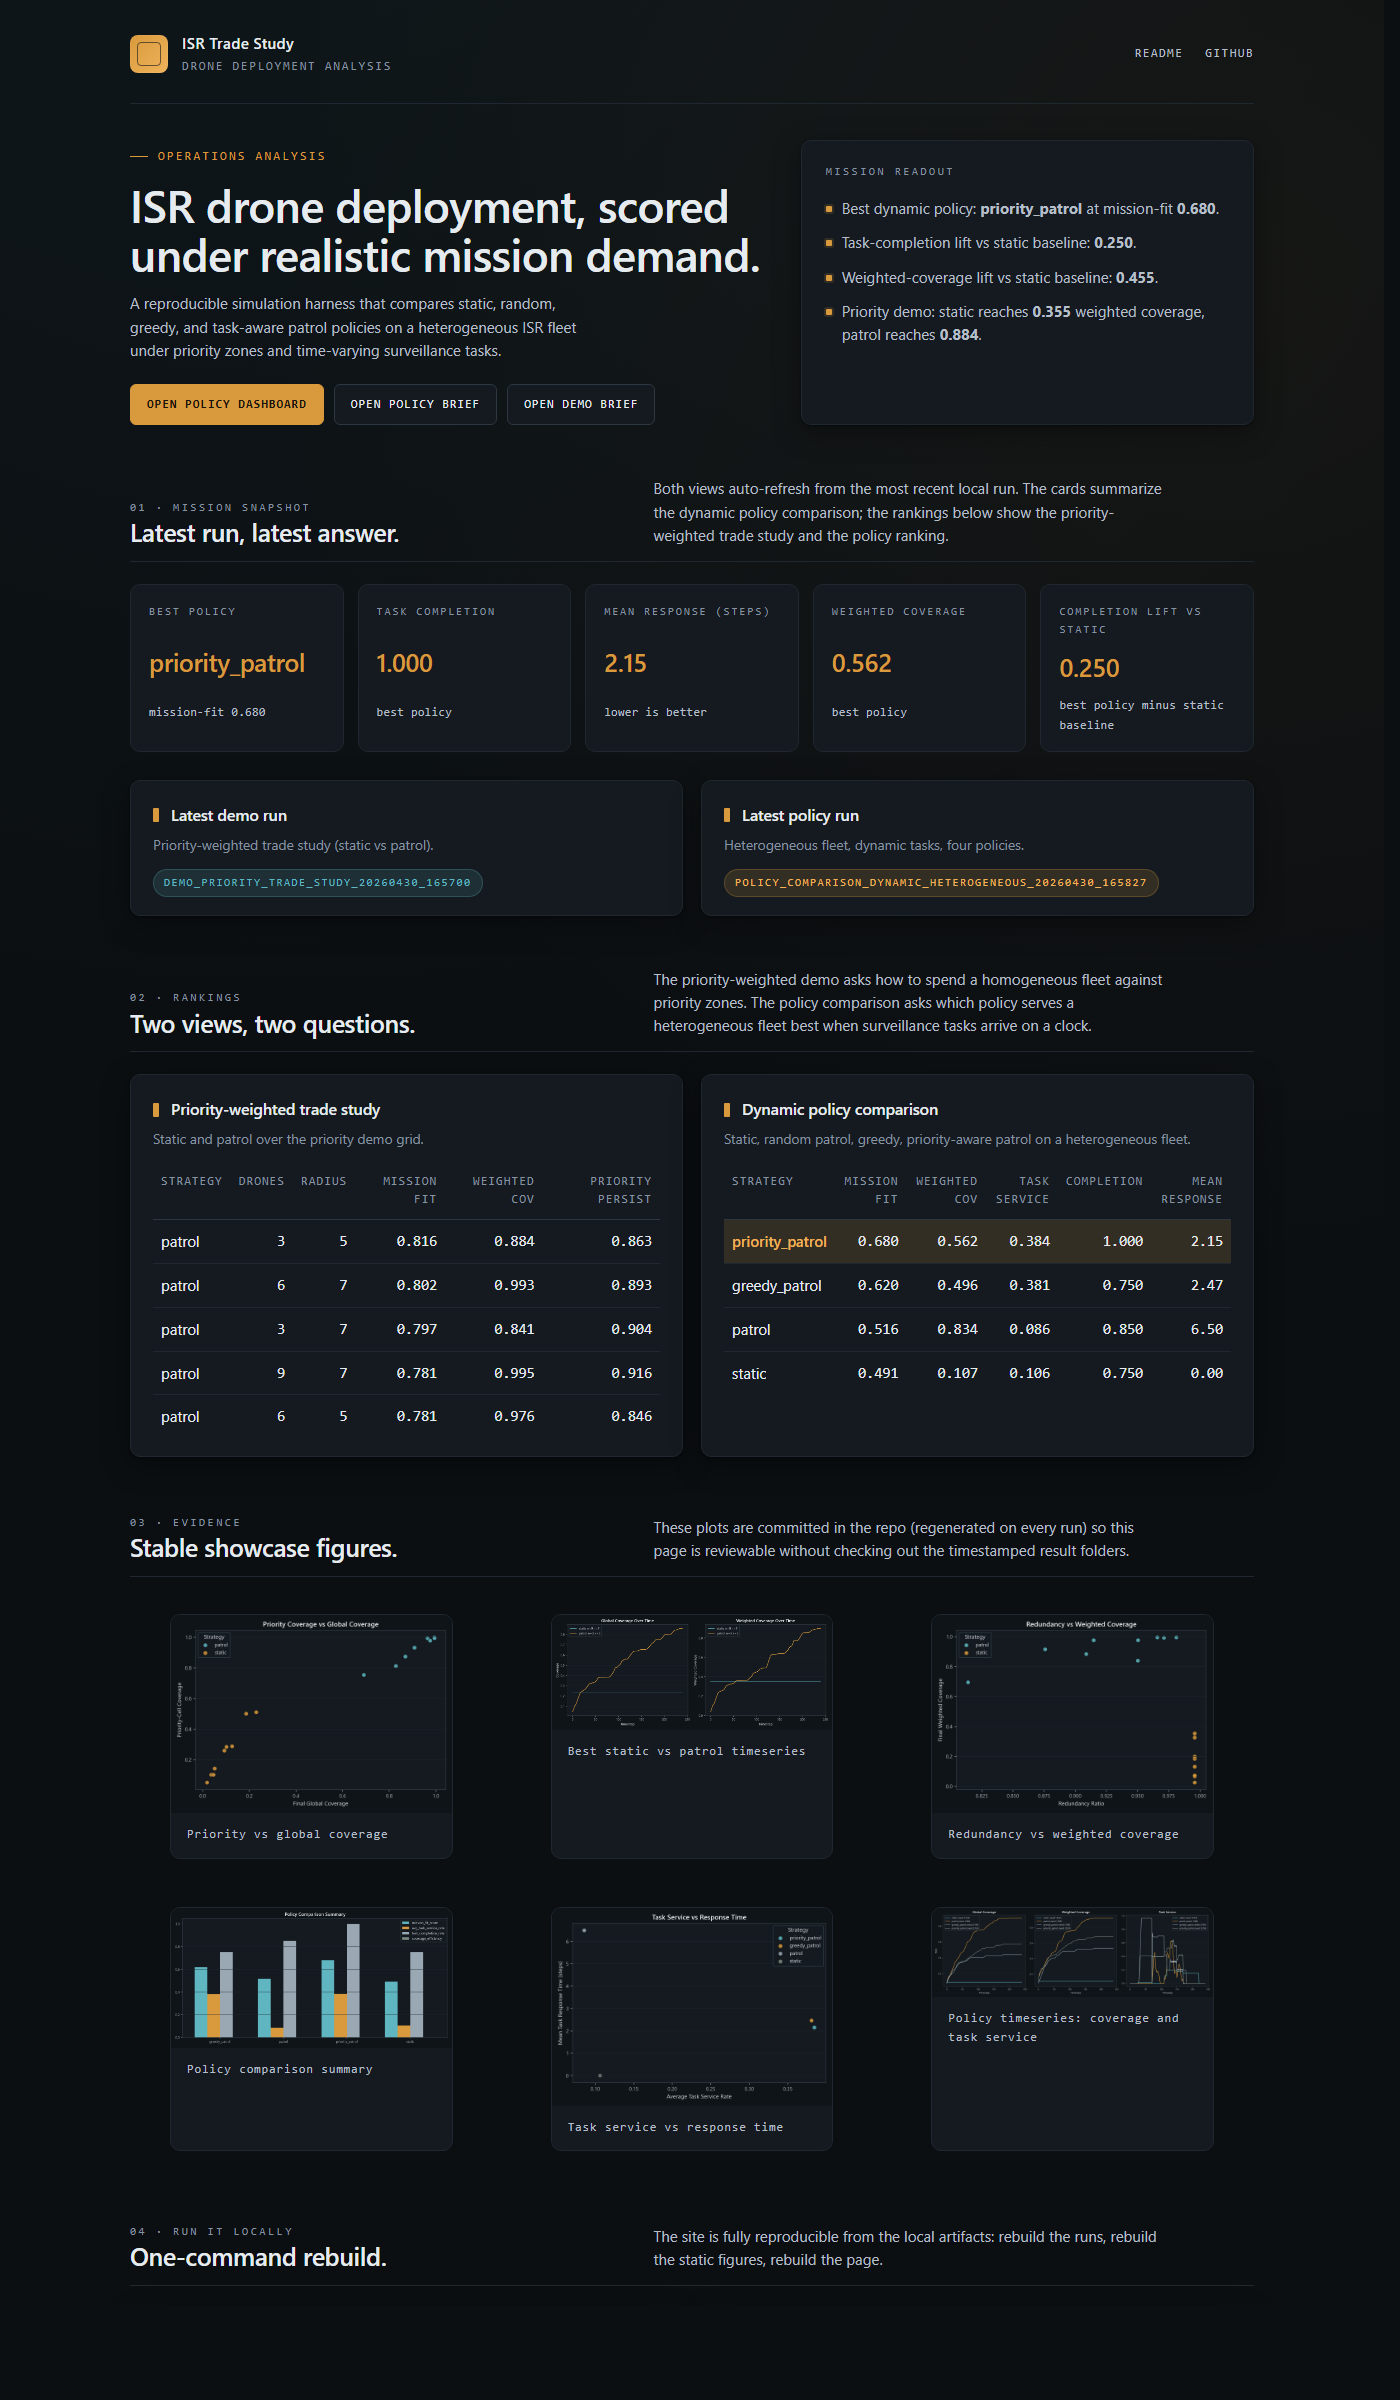
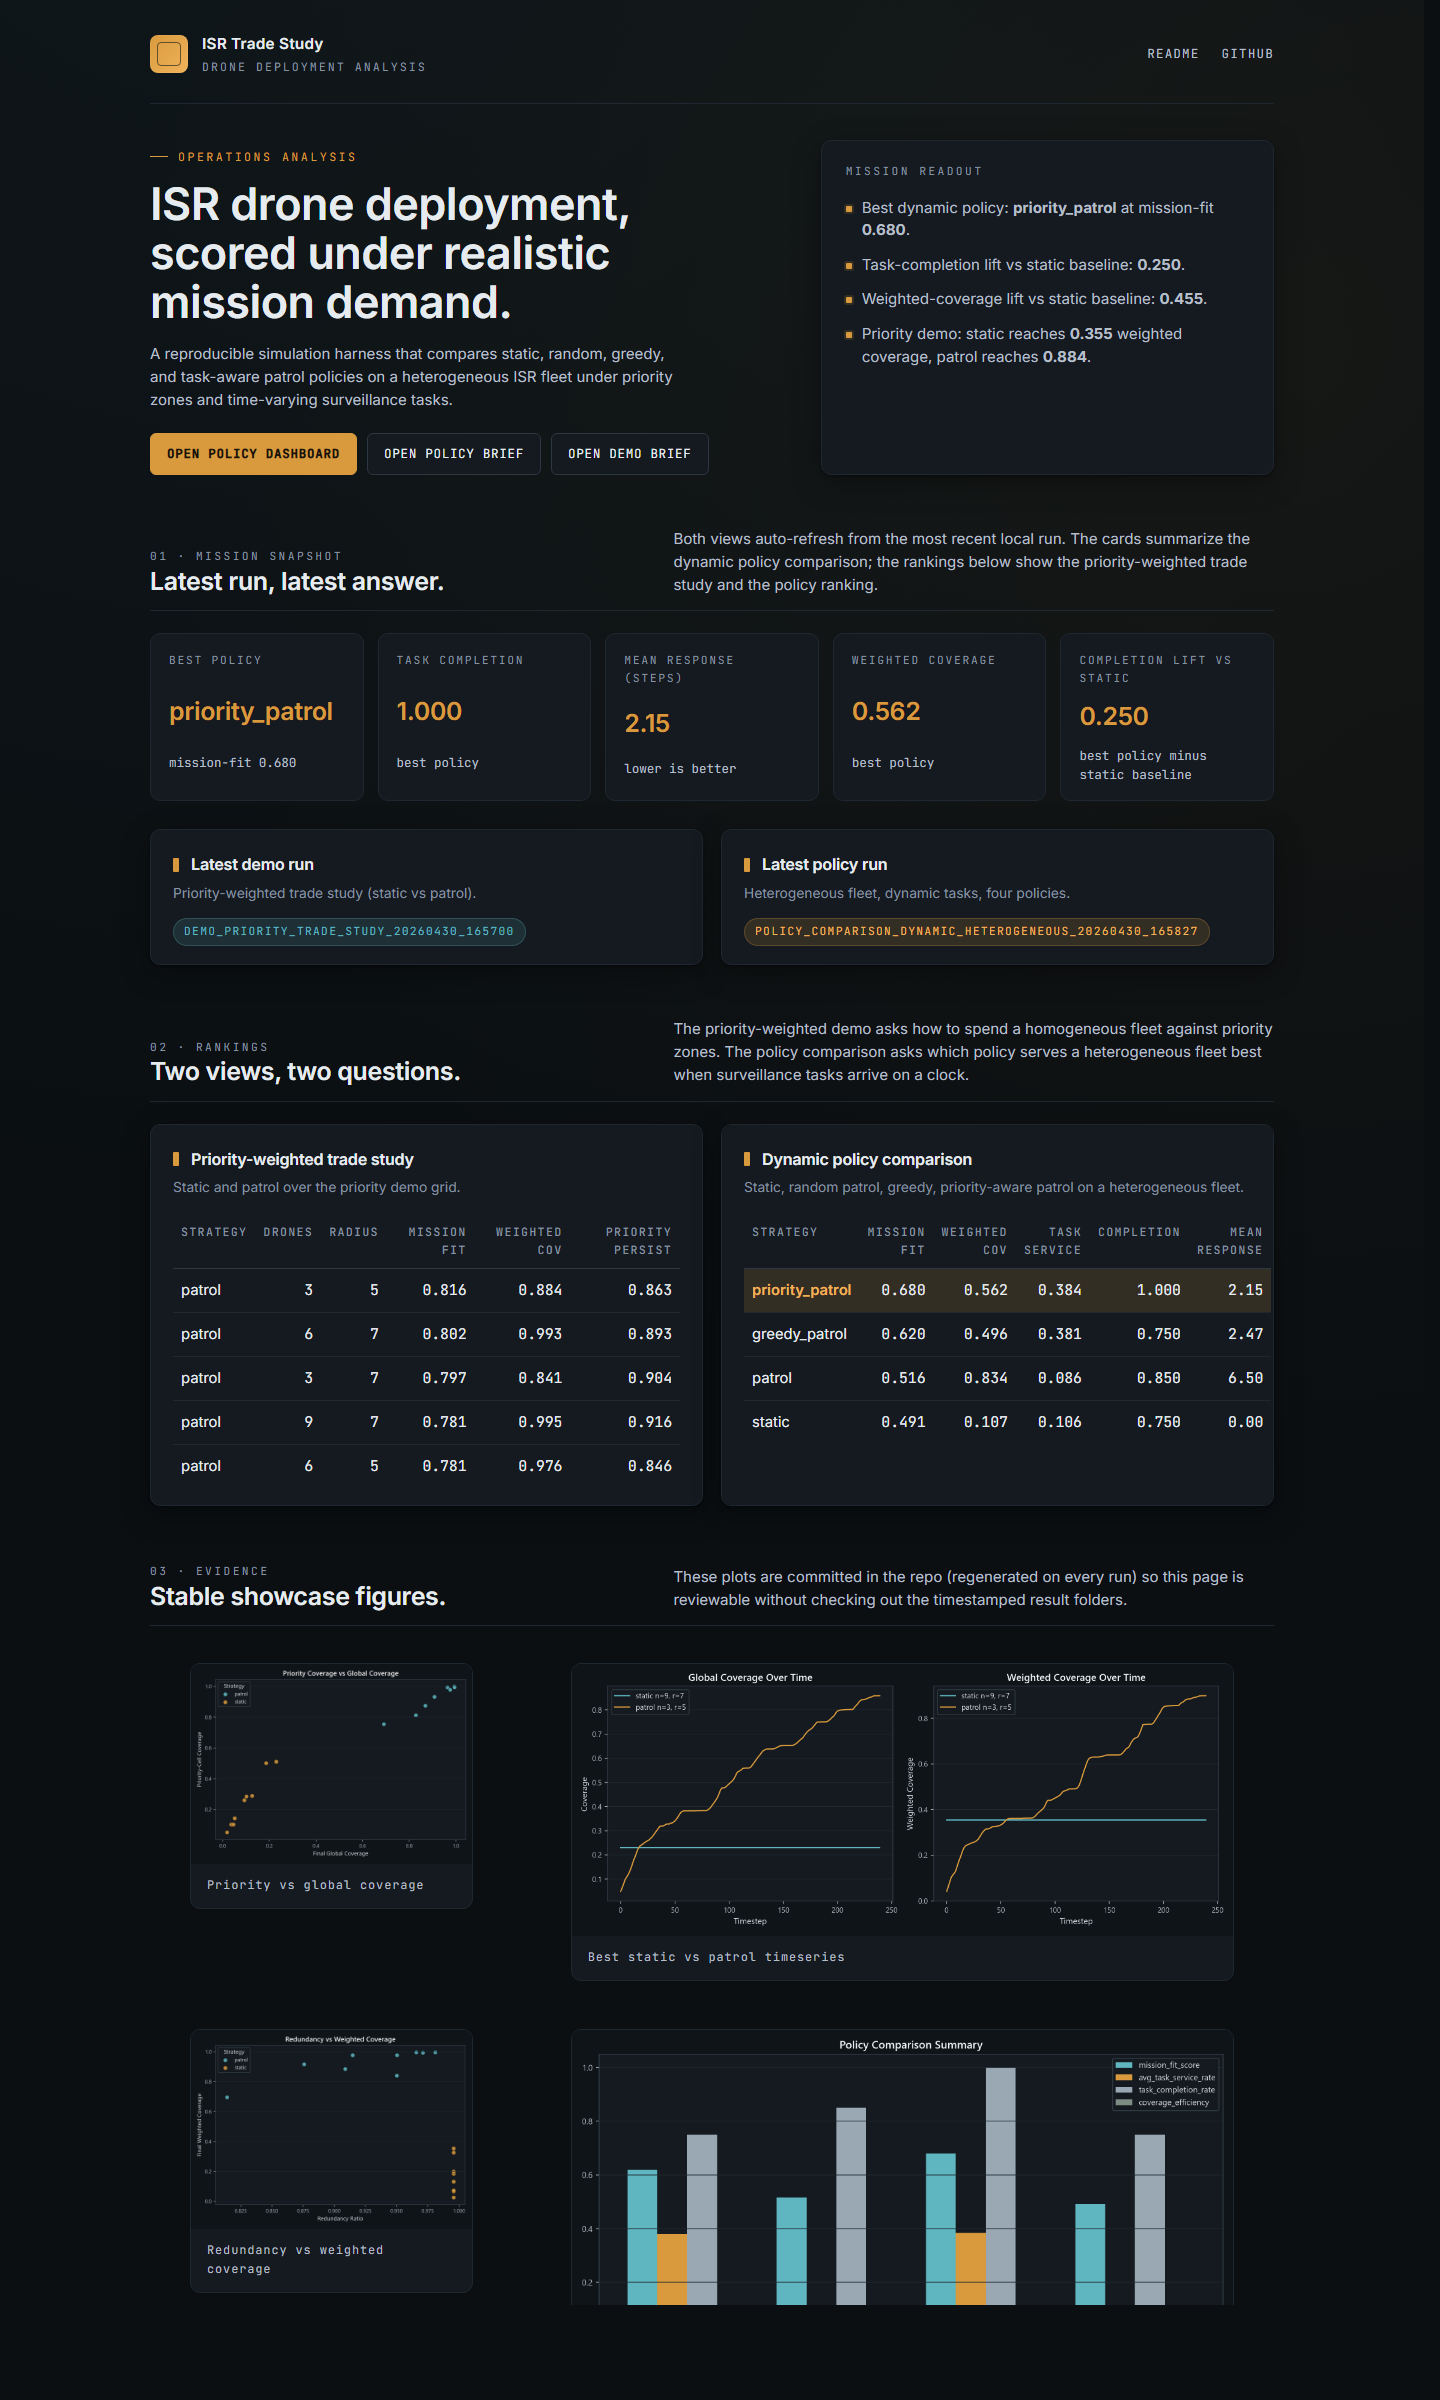
Fix showcase figure layout and make figures clickable
The gallery was forcing every tile to the same row height, so wide
multi-panel matplotlib outputs collapsed into tiny strips inside
oversized dark cards.

- align gallery tiles to the top so each card sizes to its content
- add figure--wide modifier; multi-panel plots span 2 columns above 900px
  and fall back to a single column on small screens
- wrap each image in an anchor so clicking opens the full-resolution PNG
  in a new tab (with focus-visible + hover affordance)
- mark the three wide showcase figures (best timeseries, policy bars,
  policy timeseries) so they actually render legibly
- regenerate docs/figures/live_demo_preview.png to match

diff --git a/docs/live_demo/index.html b/docs/live_demo/index.html
@@ -96,7 +96,7 @@
     </div>
     <p>These plots are committed in the repo (regenerated on every run) so this page is reviewable without checking out the timestamped result folders.</p>
   </div>
-  <div class="gallery"><figure class="figure"><img src="../figures/demo_priority_priority_vs_global.png" alt="Priority vs global coverage"><figcaption>Priority vs global coverage</figcaption></figure><figure class="figure"><img src="../figures/demo_priority_best_timeseries.png" alt="Best static vs patrol timeseries"><figcaption>Best static vs patrol timeseries</figcaption></figure><figure class="figure"><img src="../figures/demo_priority_redundancy_vs_coverage.png" alt="Redundancy vs weighted coverage"><figcaption>Redundancy vs weighted coverage</figcaption></figure><figure class="figure"><img src="../figures/policy_dynamic_strategy_bars.png" alt="Policy comparison summary"><figcaption>Policy comparison summary</figcaption></figure><figure class="figure"><img src="../figures/policy_dynamic_task_service_vs_response.png" alt="Task service vs response time"><figcaption>Task service vs response time</figcaption></figure><figure class="figure"><img src="../figures/policy_dynamic_timeseries.png" alt="Policy timeseries: coverage and task service"><figcaption>Policy timeseries: coverage and task service</figcaption></figure></div>
+  <div class="gallery"><figure class="figure"><a class="figure__link" href="../figures/demo_priority_priority_vs_global.png" target="_blank" rel="noopener noreferrer" title="Open full-size image in new tab"><img src="../figures/demo_priority_priority_vs_global.png" alt="Priority vs global coverage"></a><figcaption>Priority vs global coverage</figcaption></figure><figure class="figure figure--wide"><a class="figure__link" href="../figures/demo_priority_best_timeseries.png" target="_blank" rel="noopener noreferrer" title="Open full-size image in new tab"><img src="../figures/demo_priority_best_timeseries.png" alt="Best static vs patrol timeseries"></a><figcaption>Best static vs patrol timeseries</figcaption></figure><figure class="figure"><a class="figure__link" href="../figures/demo_priority_redundancy_vs_coverage.png" target="_blank" rel="noopener noreferrer" title="Open full-size image in new tab"><img src="../figures/demo_priority_redundancy_vs_coverage.png" alt="Redundancy vs weighted coverage"></a><figcaption>Redundancy vs weighted coverage</figcaption></figure><figure class="figure figure--wide"><a class="figure__link" href="../figures/policy_dynamic_strategy_bars.png" target="_blank" rel="noopener noreferrer" title="Open full-size image in new tab"><img src="../figures/policy_dynamic_strategy_bars.png" alt="Policy comparison summary"></a><figcaption>Policy comparison summary</figcaption></figure><figure class="figure"><a class="figure__link" href="../figures/policy_dynamic_task_service_vs_response.png" target="_blank" rel="noopener noreferrer" title="Open full-size image in new tab"><img src="../figures/policy_dynamic_task_service_vs_response.png" alt="Task service vs response time"></a><figcaption>Task service vs response time</figcaption></figure><figure class="figure figure--wide"><a class="figure__link" href="../figures/policy_dynamic_timeseries.png" target="_blank" rel="noopener noreferrer" title="Open full-size image in new tab"><img src="../figures/policy_dynamic_timeseries.png" alt="Policy timeseries: coverage and task service"></a><figcaption>Policy timeseries: coverage and task service</figcaption></figure></div>
 </section>
 
 

diff --git a/docs/live_demo/assets/styles.css b/docs/live_demo/assets/styles.css
@@ -449,6 +449,7 @@ td.numeric, th.numeric {
 .gallery {
   display: grid;
   grid-template-columns: repeat(auto-fit, minmax(320px, 1fr));
+  align-items: start;
   gap: 18px;
 }
 
@@ -459,6 +460,29 @@ td.numeric, th.numeric {
   overflow: hidden;
   display: flex;
   flex-direction: column;
+  align-self: start;
+  transition: border-color 120ms ease, transform 120ms ease, box-shadow 120ms ease;
+}
+
+.figure--wide {
+  grid-column: span 2;
+}
+
+@media (max-width: 900px) {
+  .figure--wide {
+    grid-column: auto;
+  }
+}
+
+.figure__link {
+  display: block;
+  line-height: 0;
+  background: #0f1418;
+}
+
+.figure__link:focus-visible {
+  outline: 2px solid var(--accent);
+  outline-offset: -2px;
 }
 
 .figure img {
@@ -466,6 +490,12 @@ td.numeric, th.numeric {
   width: 100%;
   height: auto;
   background: #0f1418;
+}
+
+.figure:hover {
+  border-color: var(--line-strong);
+  transform: translateY(-1px);
+  box-shadow: var(--shadow);
 }
 
 .figure figcaption {

diff --git a/src/isr_trade_study/dashboard/live_demo.py b/src/isr_trade_study/dashboard/live_demo.py
@@ -28,13 +28,13 @@ from .theme import (
 )
 
 
-_STABLE_FIGURES: tuple[tuple[str, str], ...] = (
-    ("demo_priority_priority_vs_global.png", "Priority vs global coverage"),
-    ("demo_priority_best_timeseries.png", "Best static vs patrol timeseries"),
-    ("demo_priority_redundancy_vs_coverage.png", "Redundancy vs weighted coverage"),
-    ("policy_dynamic_strategy_bars.png", "Policy comparison summary"),
-    ("policy_dynamic_task_service_vs_response.png", "Task service vs response time"),
-    ("policy_dynamic_timeseries.png", "Policy timeseries: coverage and task service"),
+_STABLE_FIGURES: tuple[tuple[str, str, bool], ...] = (
+    ("demo_priority_priority_vs_global.png", "Priority vs global coverage", False),
+    ("demo_priority_best_timeseries.png", "Best static vs patrol timeseries", True),
+    ("demo_priority_redundancy_vs_coverage.png", "Redundancy vs weighted coverage", False),
+    ("policy_dynamic_strategy_bars.png", "Policy comparison summary", True),
+    ("policy_dynamic_task_service_vs_response.png", "Task service vs response time", False),
+    ("policy_dynamic_timeseries.png", "Policy timeseries: coverage and task service", True),
 )
 
 
@@ -362,14 +362,14 @@ def _ranking_section(demo: dict[str, Any], policy: dict[str, Any]) -> str:
 
 def _figures_section(figures_root: Path, live_demo_root: Path) -> str:
     figure_html: list[str] = []
-    for filename, caption in _STABLE_FIGURES:
+    for filename, caption, wide in _STABLE_FIGURES:
         path = figures_root / filename
         rel = relative_to(live_demo_root, path)
         if rel is None:
             continue
         if not path.exists():
             continue
-        figure_html.append(render_figure(rel, caption))
+        figure_html.append(render_figure(rel, caption, wide=wide))
 
     body = "".join(figure_html) if figure_html else (
         '<div class="empty"><strong>No figures yet.</strong> '

diff --git a/src/isr_trade_study/dashboard/theme.py b/src/isr_trade_study/dashboard/theme.py
@@ -86,11 +86,25 @@ def render_metric_card(label: str, value: str, *, delta: str | None = None) -> s
     )
 
 
-def render_figure(src: str, caption: str) -> str:
+def render_figure(src: str, caption: str, *, wide: bool = False) -> str:
+    """Render a clickable figure tile.
+
+    The image is wrapped in an anchor pointing back at the source PNG so the
+    full-resolution plot opens in a new tab. ``wide=True`` adds a modifier
+    class so the gallery grid lets the figure span two columns when there's
+    room (multi-panel matplotlib outputs need the extra width to stay
+    legible).
+    """
+    classes = "figure figure--wide" if wide else "figure"
+    safe_src = html.escape(src)
+    safe_caption = html.escape(caption)
     return (
-        '<figure class="figure">'
-        f'<img src="{html.escape(src)}" alt="{html.escape(caption)}">'
-        f'<figcaption>{html.escape(caption)}</figcaption>'
+        f'<figure class="{classes}">'
+        f'<a class="figure__link" href="{safe_src}" target="_blank" rel="noopener noreferrer" '
+        f'title="Open full-size image in new tab">'
+        f'<img src="{safe_src}" alt="{safe_caption}">'
+        f"</a>"
+        f"<figcaption>{safe_caption}</figcaption>"
         "</figure>"
     )
 
